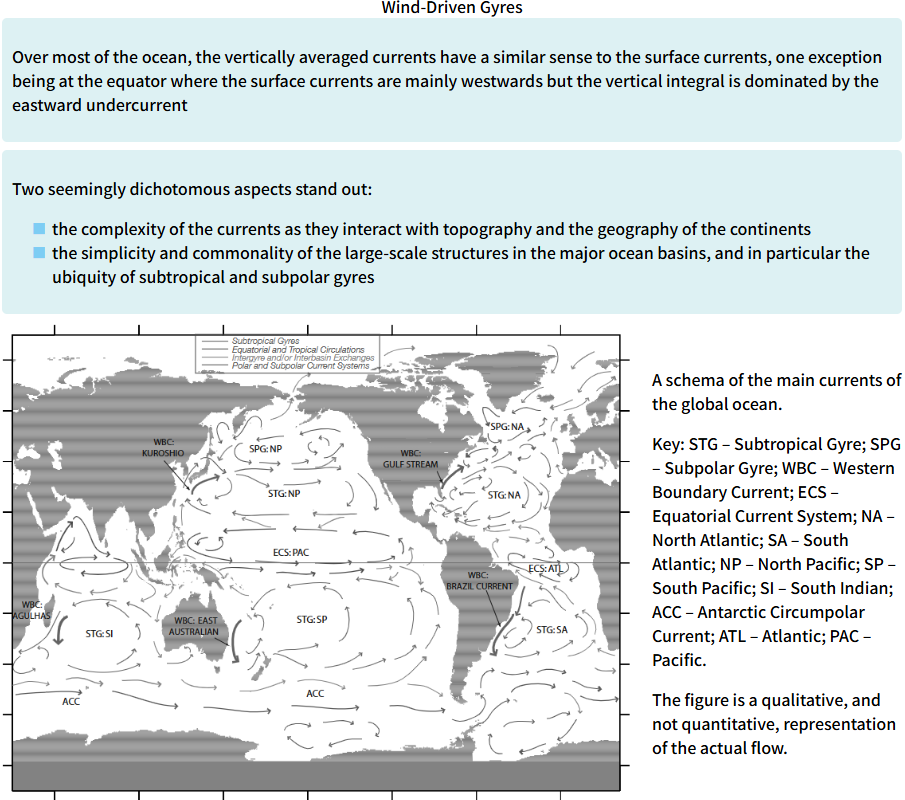
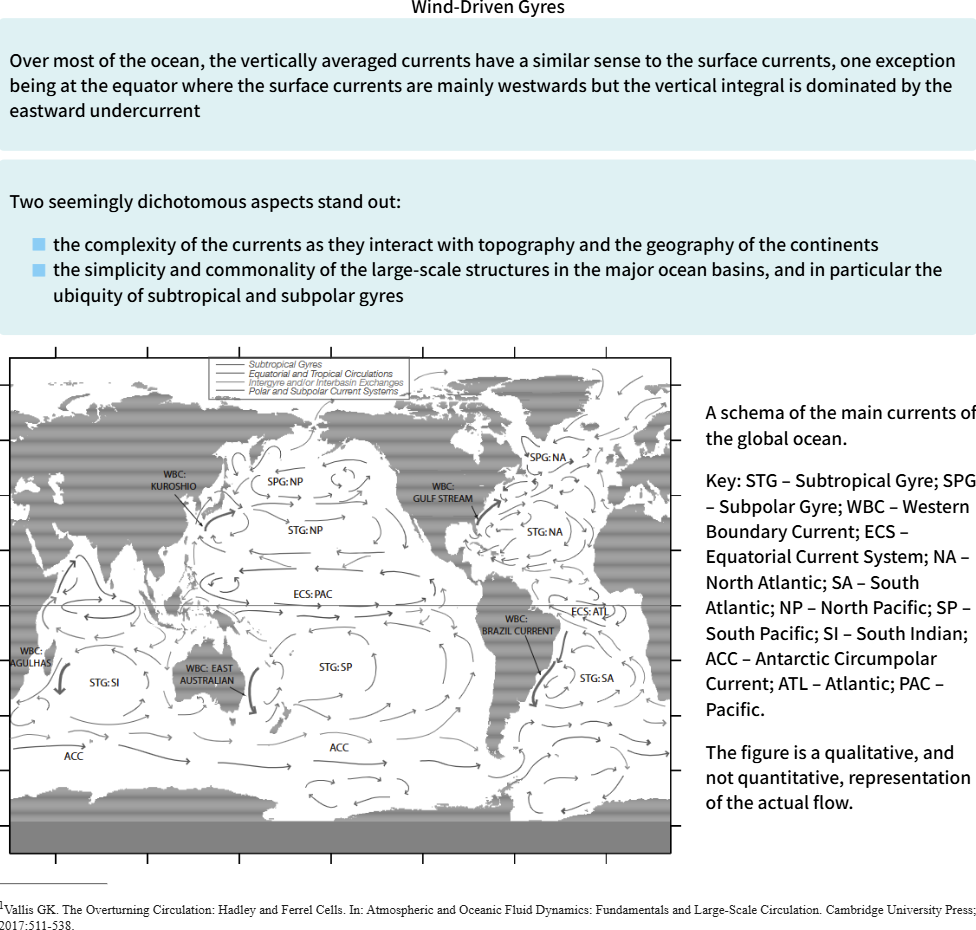
Update

diff --git a/Lecture5BSlide2.html b/Lecture5BSlide2.html
@@ -71,13 +71,21 @@ window.addEventListener('resize', scaleContainer);
             <img src="Figures/Lecture5B_SchemaCurrentsGlobalOcean.png" alt="SchemaCurrentsGlobalOcean">
             <div class="image-text">
                 <p>A schema of the main currents of the global ocean.</p>
-                <p>Key: STG – Subtropical Gyre; SPG – Subpolar Gyre; WBC – Western Boundary Current;
-                    ECS – Equatorial Current System; NA – North Atlantic; SA – South Atlantic;
-                    NP – North Pacific; SP – South Pacific; SI – South Indian;
-                    ACC – Antarctic Circumpolar Current; ATL – Atlantic; PAC – Pacific.
+                <p>Key: STG - Subtropical Gyre; SPG – Subpolar Gyre; WBC – Western Boundary Current;
+                    ECS - Equatorial Current System; NA – North Atlantic; SA – South Atlantic;
+                    NP - North Pacific; SP – South Pacific; SI – South Indian;
+                    ACC - Antarctic Circumpolar Current; ATL – Atlantic; PAC – Pacific.
                 </p>
                 <p>The figure is a qualitative, and not quantitative, representation of the actual flow.</p>
             </div>
+        </div>
+
+                <!-- Footnote Section -->
+        <div class="footnote-container">
+            <hr class="footnote-line">
+            <p class="footnote">
+                <sup>1</sup>Vallis GK. The Overturning Circulation: Hadley and Ferrel Cells. In: Atmospheric and Oceanic Fluid Dynamics: Fundamentals and Large-Scale Circulation. Cambridge University Press; 2017:511-538.
+            </p>
         </div>
 
         <!-- Left Arrow to go back to Slide  -->
